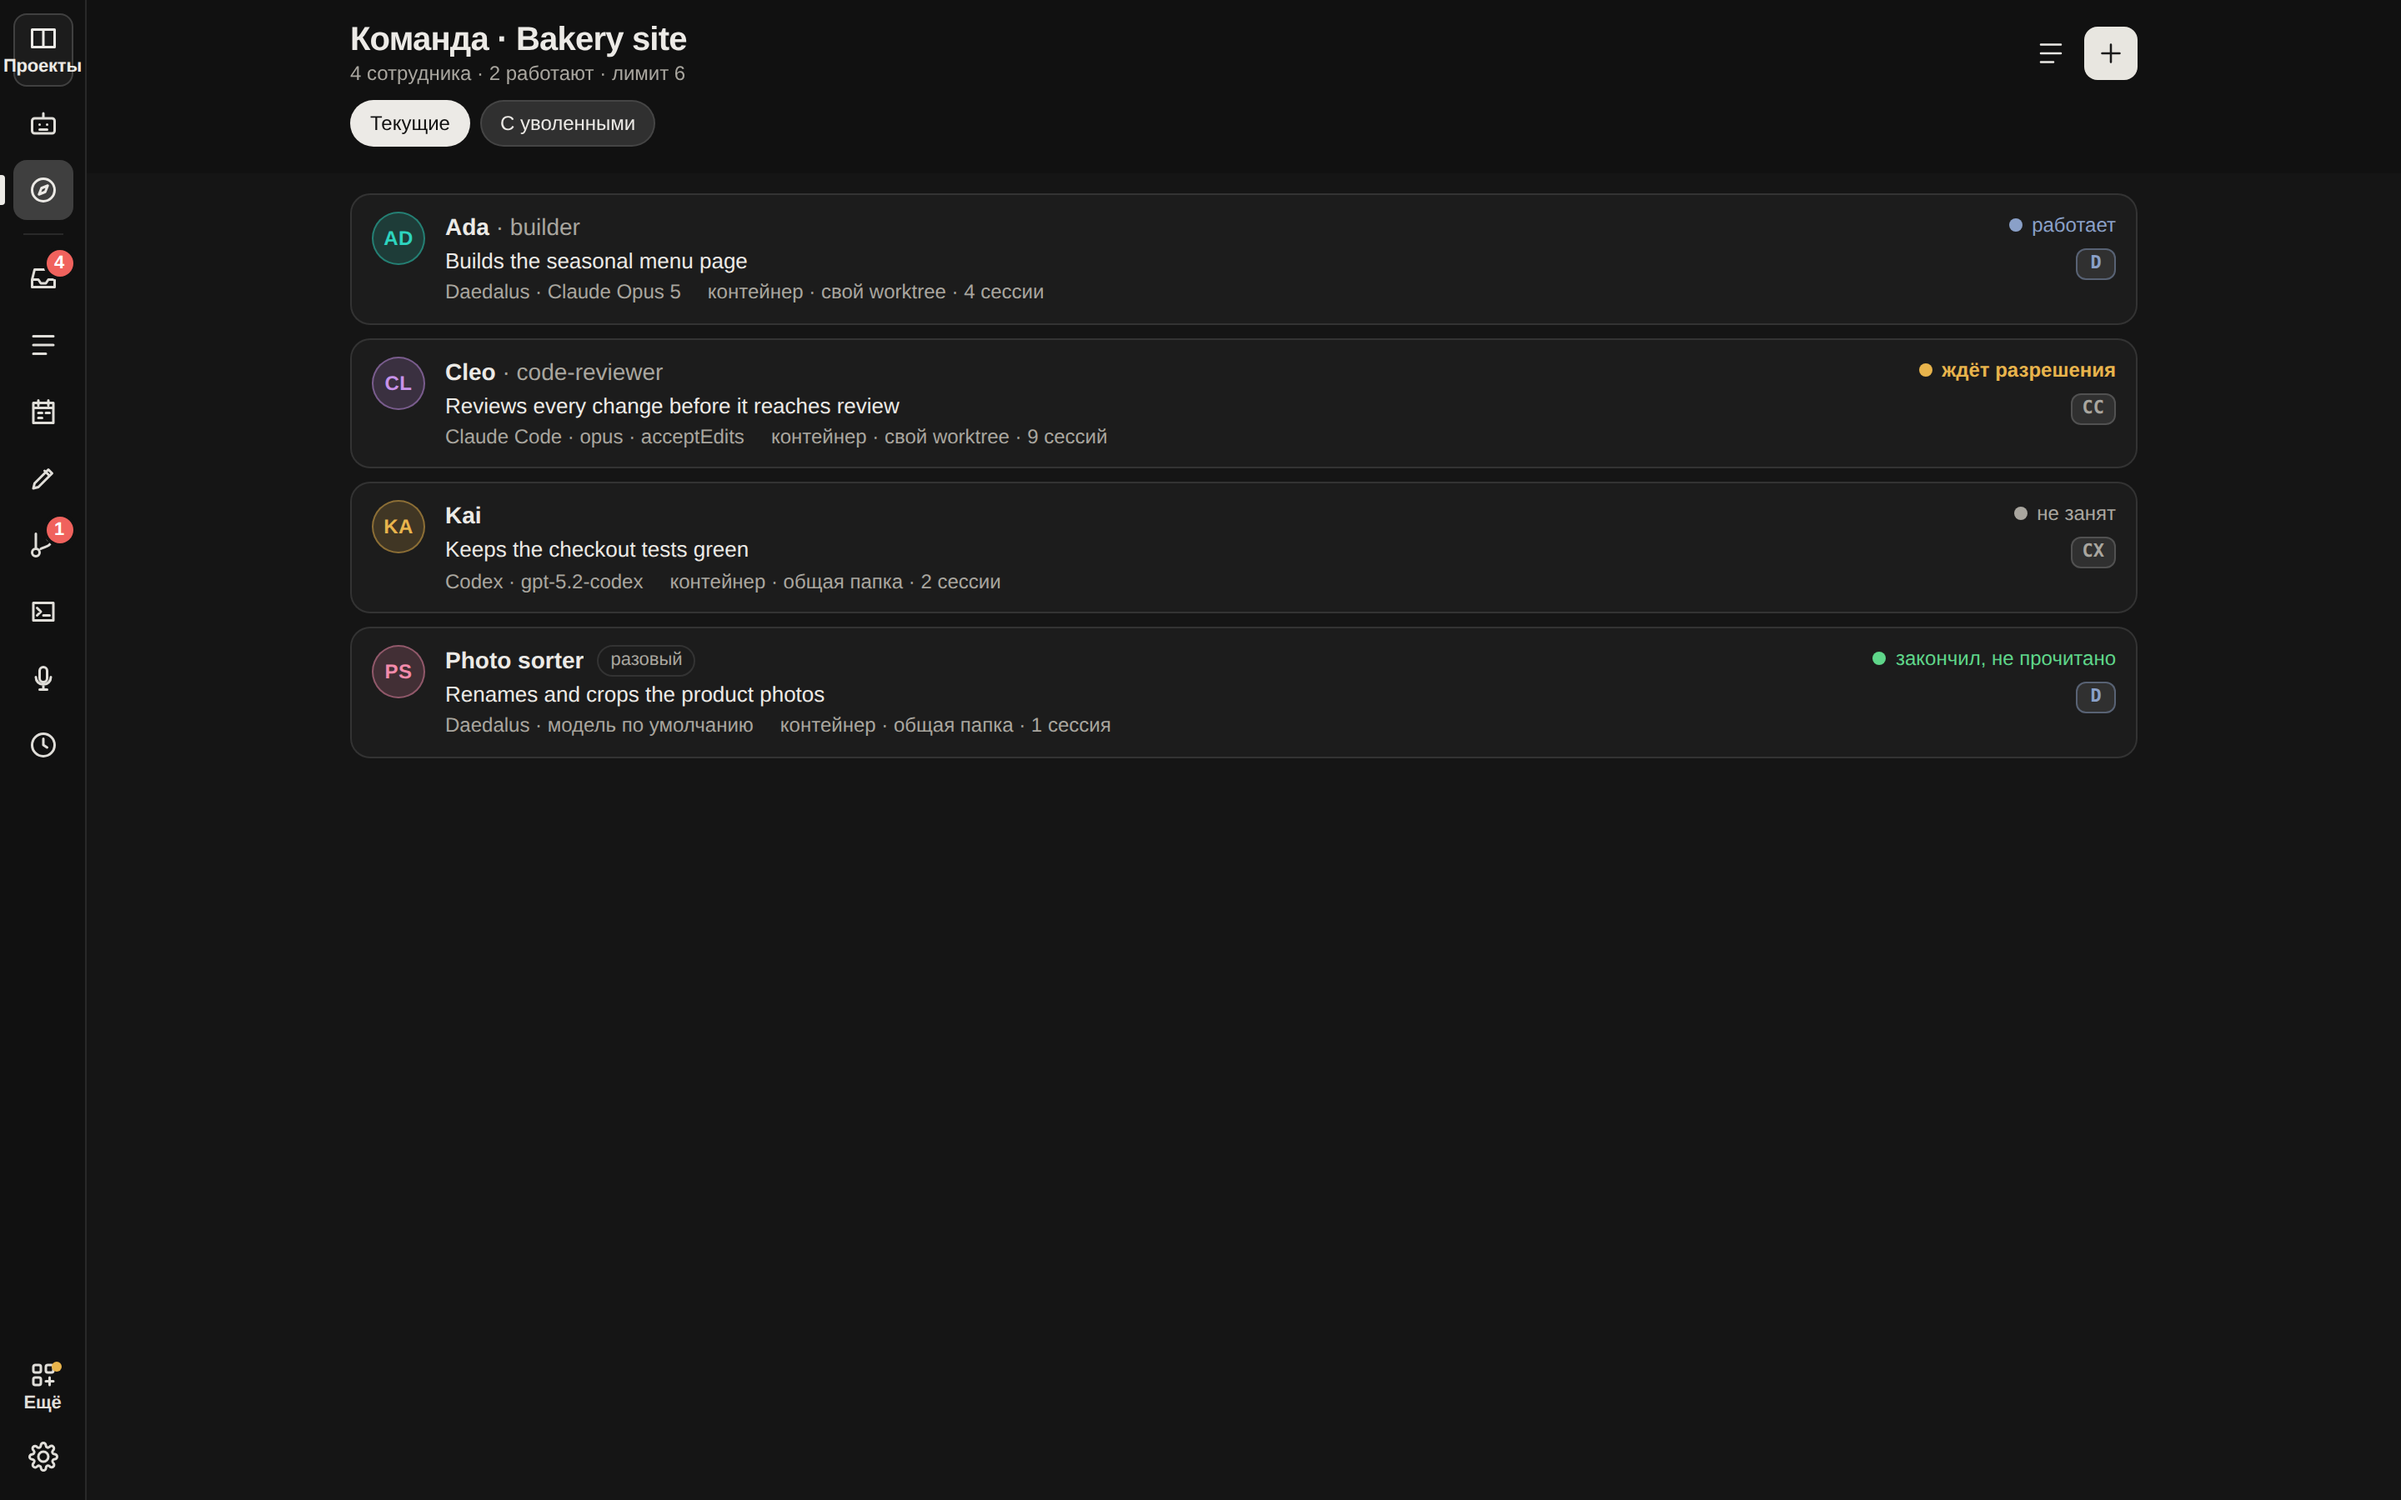
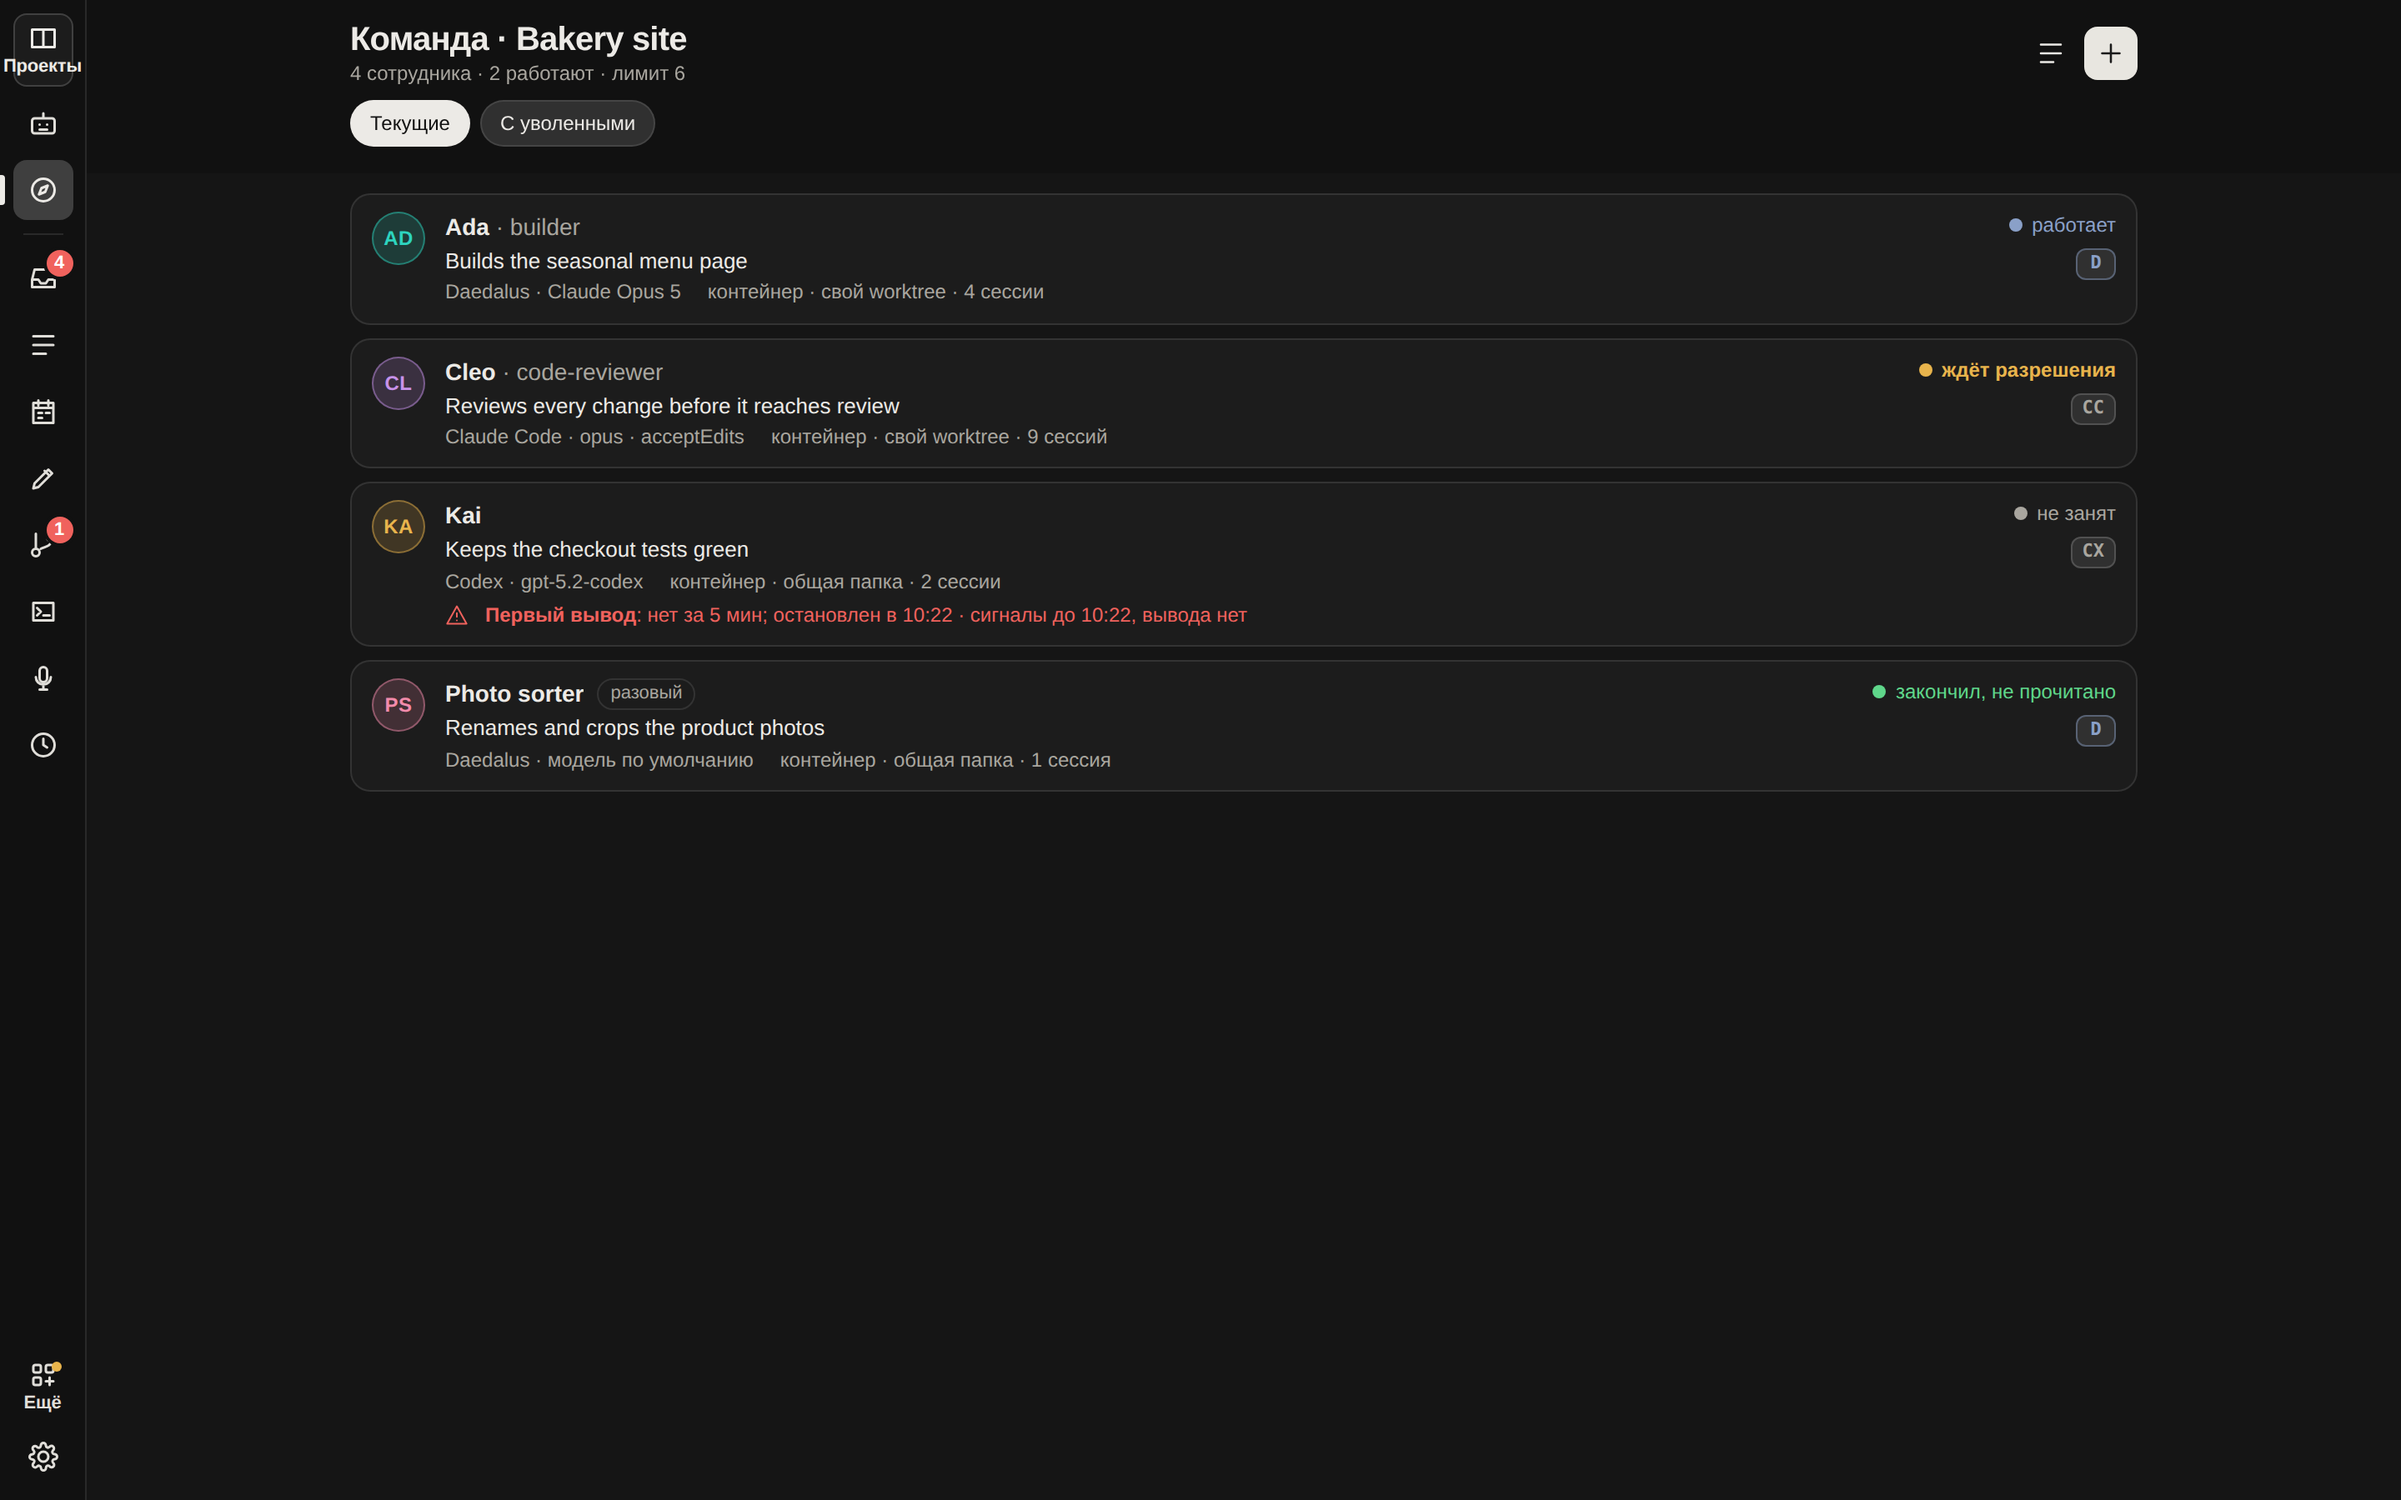
Describe autopilot, competing attempts, the edit board and idle suspend in 0.19.1
Photograph the team, member and usage screens, which now show why a
member's attempt stands where it does and when a quota window runs out.

Changed region(s): [[0.1562, 0.4044, 0.5, 0.5289], [0.7812, 0.4356, 0.875, 0.4667]]

diff --git a/CHANGELOG.md b/CHANGELOG.md
@@ -2,6 +2,16 @@
 
 Notable changes, newest first. The repository's `main` is the released version.
 
+## 2026-10-16 — desktop-v0.19.1
+
+- **Autopilot for a finished run.** When a chat's run ends, a small judge decides whether the work is done, should go on, or needs you, and offers the choice as buttons; with autopilot on it carries on by itself within a limit of continuations and a daily dollar cap. It learns how you write from the suggested next message, and the app shows both.
+- **Competing attempts at one card.** The orchestrator can start two or three attempts at the same task, each a card in its own worktree with its budget held in advance; it wakes once with a side-by-side summary, and the card shows each attempt's state, cost and the one kept. The winner goes to review and you merge it.
+- **Who is editing what.** Agents sharing a folder learn when someone else has just edited the same file, in the tool result and never as a refusal, and the project's team page shows who is editing what right now.
+- **Idle members are suspended.** A command-line member with nothing to do is suspended after twenty minutes and resumed when it is told something or given a task; its card says so.
+- **A project's environment and member route.** A project declares its environment once in its settings; it is prepared before members start, and they wait until it is ready. A member route falls back to the next runtime only when the first one definitely refused before admission, and the member shows the fallback.
+- **Clearer members and quotas.** A member's card says why its attempt stands where it does, the usage page forecasts when a subscription's quota window runs out, and automatic notices no longer start the turn of a member that has finished.
+- **Steadier providers.** A streamed request that sends no byte back in time is sent again; each Grok conversation is named so its cache holds; stale tool results are trimmed in proportion to the model's window; an orchestrator receives only the parts of its state that changed; a member's first tool call counts as its first output, and a JobWait never runs out before its timeout.
+
 ## 2026-10-14 — desktop-v0.19.0
 
 - **A companion instead of the voice page.** One standing agent, talked to by text or out loud on one page. It owns goals and checks them on a schedule, hands work to agents and reports back, and pauses when asked. On a phone the page is four tabs, one menu and one microphone at the end of the field.
